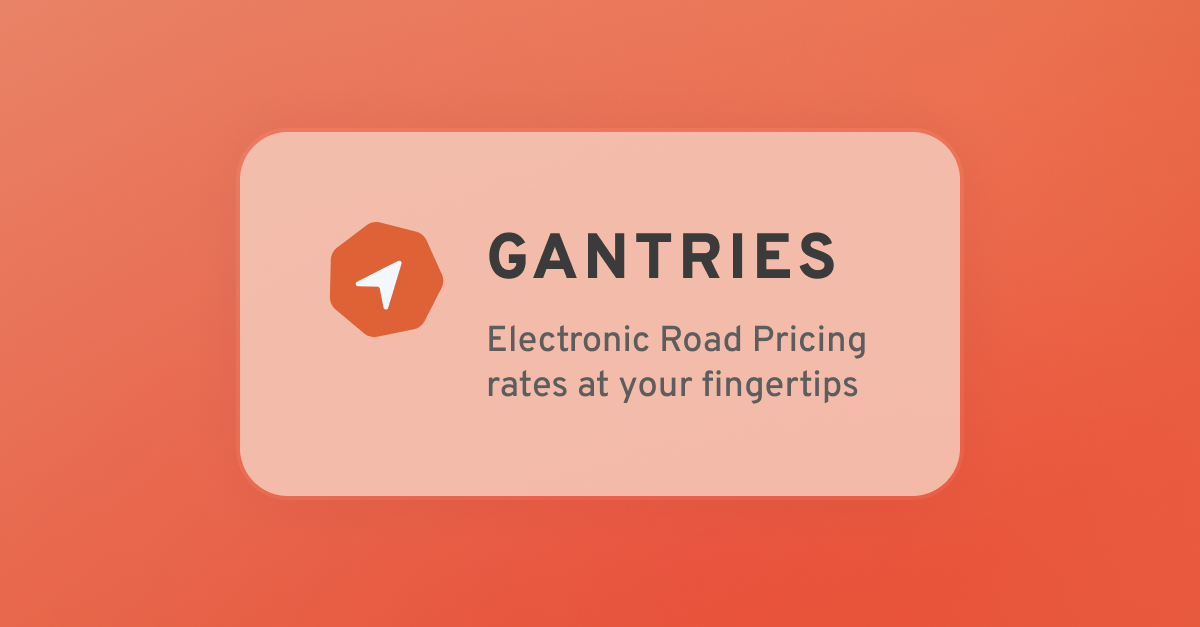
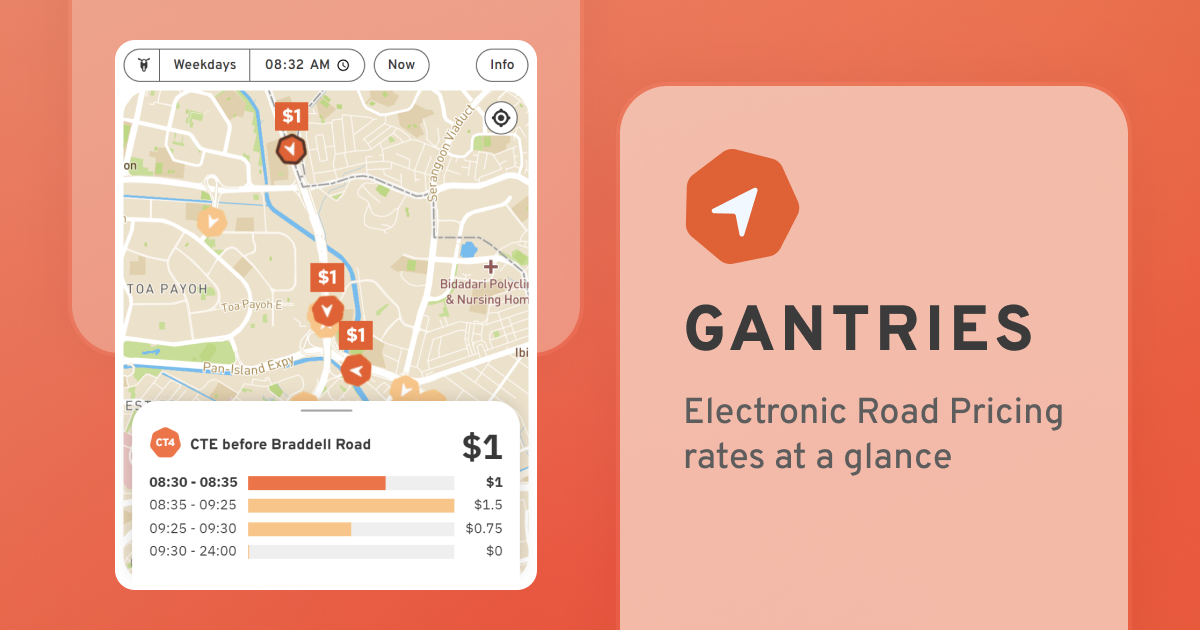
feat: improve SEO tags (#42)
* feat: remove og:type

* feat: add og:site_name

* feat: longer og:title and clearer twitter:image:alt

* feat: update description

* feat: update titles and add more detailed banner

diff --git a/public/index.html b/public/index.html
@@ -4,25 +4,32 @@
 <head>
   <meta charset="utf-8" />
   <meta name="viewport" content="width=device-width, initial-scale=1" />
-  <meta name="description" content="See Singapore's Electronic Road Pricing (ERP) rates easily" />
   <meta name="msapplication-TileColor" content="#2b5797">
   <meta name="theme-color" content="#ffffff">
+
   <link rel="apple-touch-icon" sizes="180x180" href="%PUBLIC_URL%/apple-touch-icon.png">
   <link rel="icon" type="image/png" sizes="32x32" href="%PUBLIC_URL%/favicon-32x32.png">
   <link rel="icon" type="image/png" sizes="16x16" href="%PUBLIC_URL%/favicon-16x16.png">
   <link rel="manifest" href="%PUBLIC_URL%/site.webmanifest">
   <link rel="mask-icon" href="%PUBLIC_URL%/safari-pinned-tab.svg" color="#de6235">
+
   <title>Gantries</title>
-  <meta property="og:type" content="website">
-  <meta property="og:title" content="Gantries">
+
+  <meta property="og:site_name" content="Gantries">
+  <meta property="og:title" content="Gantries: ERP rates at a glance">
   <meta property="og:url" content="https://gantries.info">
   <meta property="og:image" content="https://gantries.info/banner.png">
-  <meta property="og:description" content="See Singapore's Electronic Road Pricing (ERP) rates easily">
+  <meta property="og:description"
+    content="Get the prices of Singapore's Electronic Road Pricing (ERP) gantries, based on the time and your vehicle type.">
+  <meta name="description"
+    content="Get the prices of Singapore's Electronic Road Pricing (ERP) gantries, based on the time and your vehicle type." />
+
   <meta name="twitter:card" content="summary_large_image">
-  <meta name="twitter:title" content="Gantries">
-  <meta name="twitter:description" content="See Singapore's Electronic Road Pricing (ERP) rates easily">
+  <meta name="twitter:title" content="Gantries: ERP rates at a glance">
+  <meta name="twitter:description"
+    content="Get the prices of Singapore's Electronic Road Pricing (ERP) gantries, based on the time and your vehicle type.">
   <meta name="twitter:image" content="https://gantries.info/banner.png">
-  <meta name="twitter:image:alt" content="Gantries banner">
+  <meta name="twitter:image:alt" content="Gantries: Electronic Road Pricing rates at a glance">
 </head>
 
 <body>
